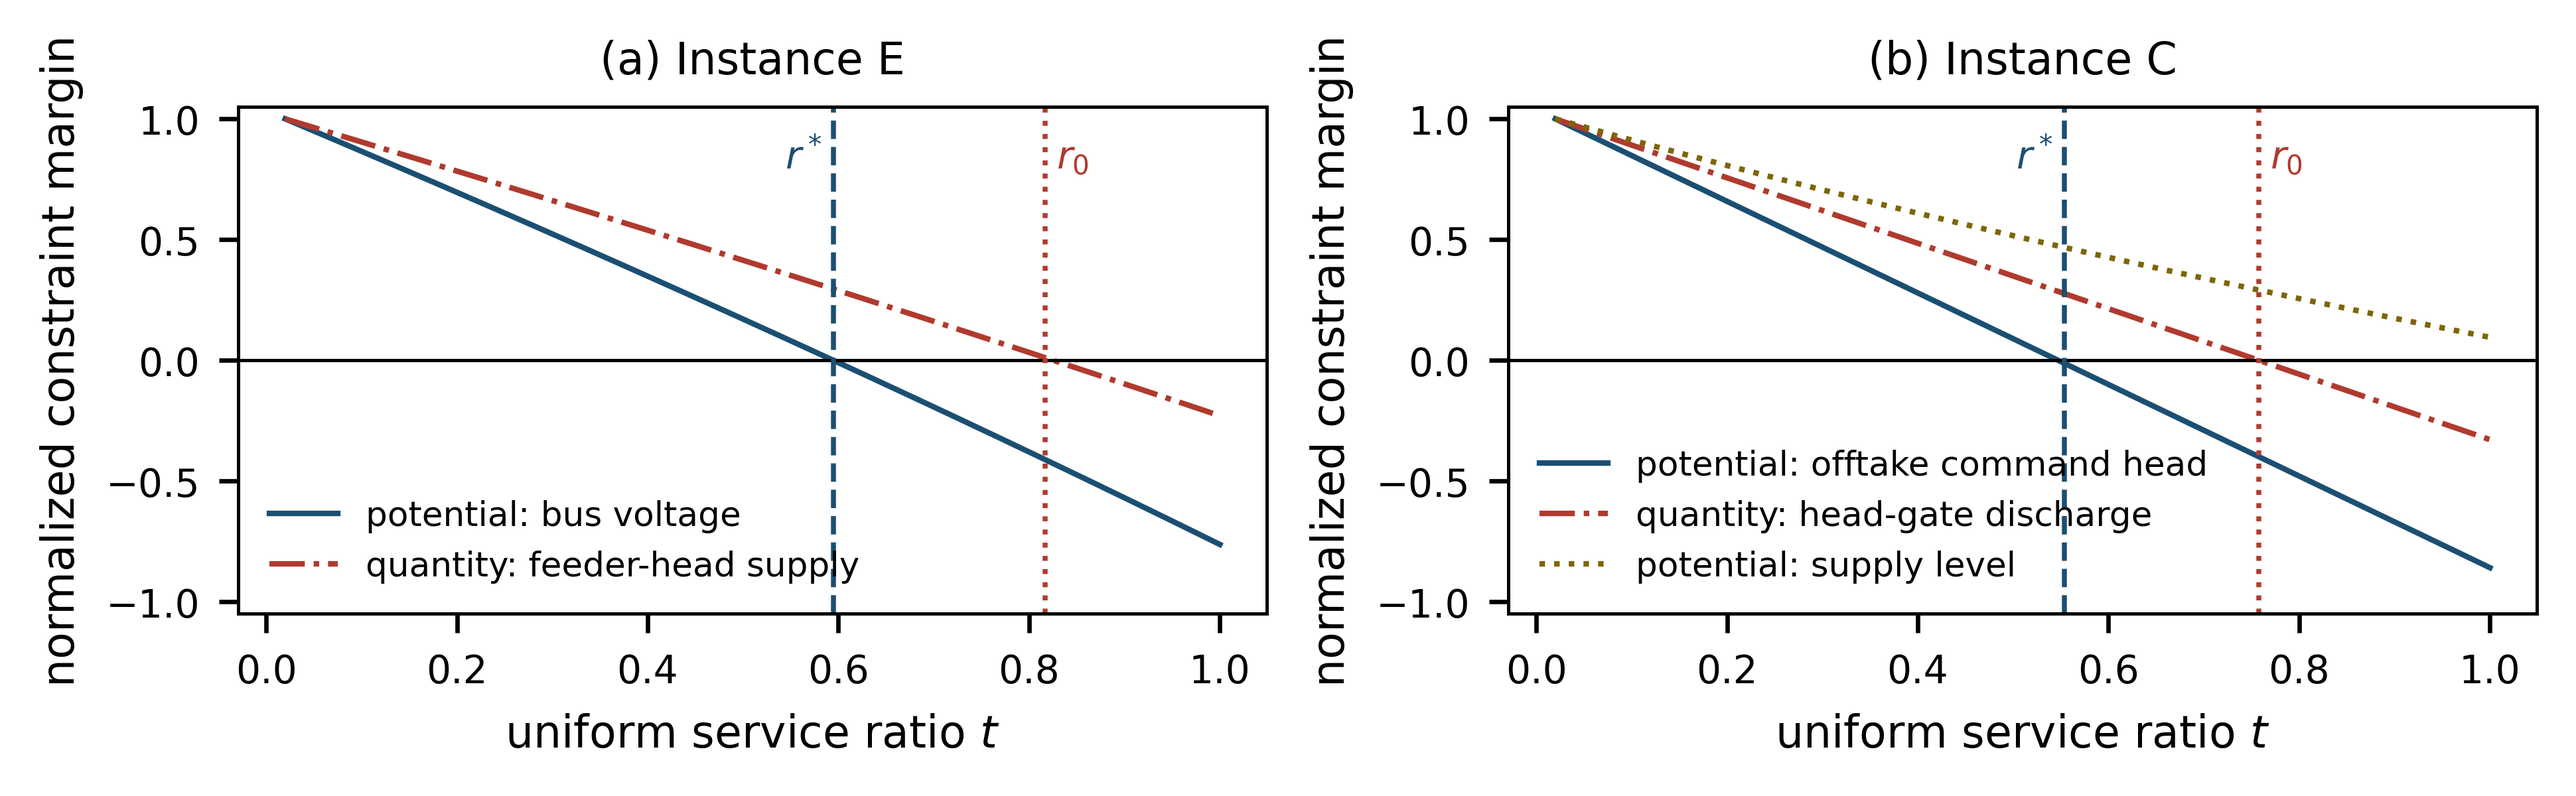
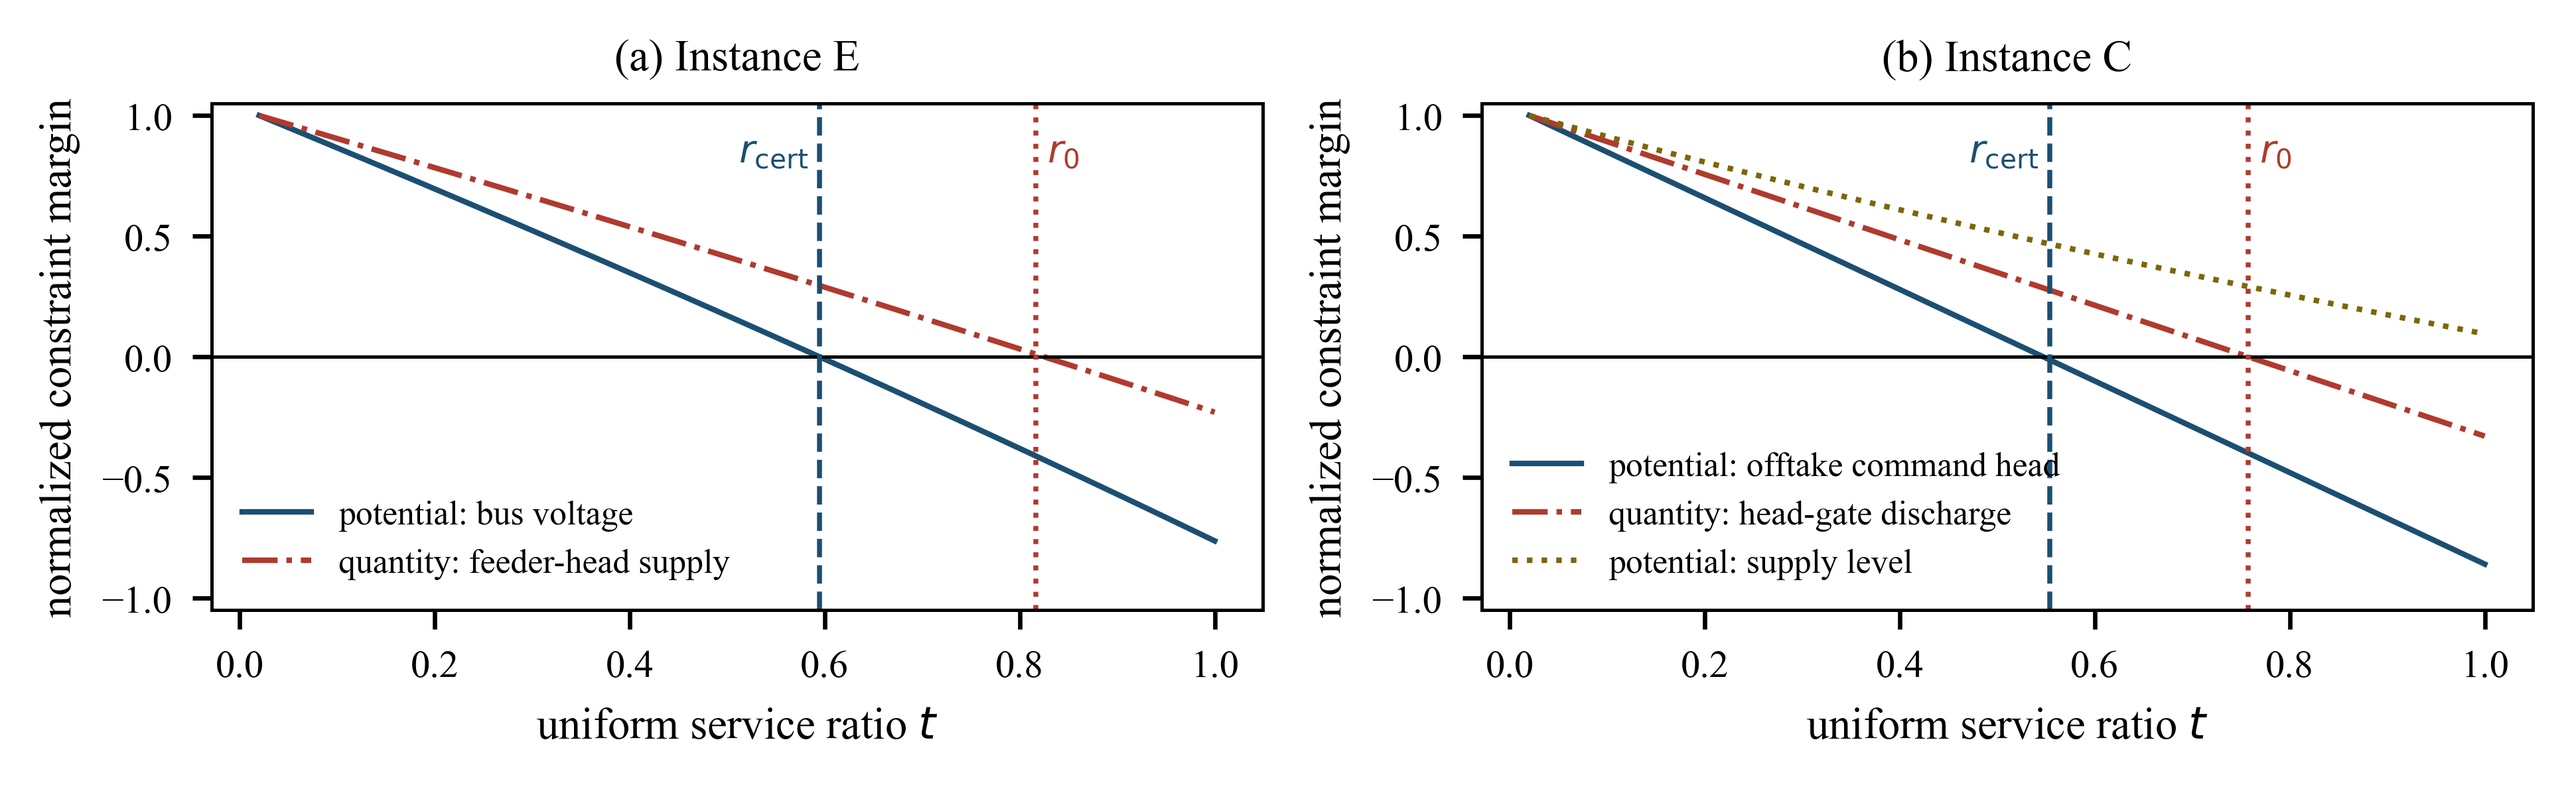
Relabel Figures 2 and 3 from the archived output; align README with the revised paper

diff --git a/src/figures.py b/src/figures.py
@@ -1,0 +1,146 @@
+#!/usr/bin/env python3
+"""Redraw Figures 2 and 3 from the archived benchmark output.
+
+Why this script exists
+----------------------
+The published figures were drawn by `hydrolex_bench.py` at a time when the
+manuscript wrote the computed floor as r*. The revised manuscript reserves r*
+for the leximin floor of problem P1 — the true optimum, which is not computed —
+and writes the value a certified plan attains as r_cert. Figures 2 and 3 still
+carried the old symbol, so they labelled a certified lower bound with the symbol
+the paper reserves for the optimum. Figure 3 additionally described the
+sequential-linearization search interval as a "bracket", which reads as a proved
+bound and is not one.
+
+This script corrects those labels and nothing else. It recomputes nothing: every
+plotted value is read from `results/hydrolex_bench_results.json`, the reference
+output archived with version 1.0.0 of this package. `hydrolex_bench.py` is left
+byte-identical to the script that produced that output.
+
+Usage
+-----
+    cd src
+    python figures.py
+
+writes ../results/fig2_frontier.png and ../results/fig3_convergence.png
+"""
+import json
+import os
+
+import numpy as np
+import matplotlib
+matplotlib.use("Agg")
+import matplotlib.pyplot as plt
+
+HERE = os.path.dirname(os.path.abspath(__file__))
+RESULTS = os.path.join(HERE, "..", "results")
+
+# style, identical to hydrolex_bench.py
+plt.rcParams.update({"font.family": "serif", "font.serif": ["Times New Roman"],
+                     "font.size": 8, "axes.linewidth": 0.6,
+                     "lines.linewidth": 1.0, "savefig.dpi": 600})
+C_DEC, C_CER, C_LIM = "#B03A2E", "#1B4F72", "#707B7C"
+
+# the symbol the revised manuscript uses for a floor a certified plan attains
+R_CERT = r"$r_{\mathrm{cert}}$"
+
+
+def load():
+    with open(os.path.join(RESULTS, "hydrolex_bench_results.json"),
+              encoding="utf-8") as fh:
+        return json.load(fh)
+
+
+def figure2(res):
+    fr = res["frontier"]
+    t = np.array(fr["t"])
+
+    def nrm(v):
+        v = np.array(v, float)
+        return v / abs(v[0])
+
+    fig, ax = plt.subplots(1, 2, figsize=(6.5, 2.05))
+    ax[0].plot(t, nrm(fr["E_voltage_margin_pu"]), color=C_CER,
+               label="potential: bus voltage")
+    ax[0].plot(t, nrm(fr["E_supply_margin"]), color=C_DEC, ls="-.",
+               label="quantity: feeder-head supply")
+    ax[1].plot(t, nrm(fr["C_gate_margin_m3s"]), color=C_CER,
+               label="potential: offtake command head")
+    ax[1].plot(t, nrm(fr["C_head_margin_m3s"]), color=C_DEC, ls="-.",
+               label="quantity: head-gate discharge")
+    ax[1].plot(t, nrm(fr["C_level_margin_m"]), color="#7D6608", ls=":",
+               label="potential: supply level")
+    for a, inst, ttl in ((ax[0], "instance_E", "(a) Instance E"),
+                         (ax[1], "instance_C", "(b) Instance C")):
+        a.axhline(0, color="k", lw=0.6)
+        a.axvline(res[inst]["decoupled_floor"], color=C_DEC, ls=":", lw=0.9)
+        a.axvline(res[inst]["certified_floor"], color=C_CER, ls="--", lw=0.9)
+        a.annotate("$r_0$", (res[inst]["decoupled_floor"], 0.92), fontsize=7,
+                   color=C_DEC, ha="left", va="top", xytext=(2, 0),
+                   textcoords="offset points")
+        a.annotate(R_CERT, (res[inst]["certified_floor"], 0.92), fontsize=7,
+                   color=C_CER, ha="right", va="top", xytext=(-2, 0),
+                   textcoords="offset points")
+        a.set_xlabel("uniform service ratio $t$")
+        a.set_ylabel("normalized constraint margin")
+        a.set_title(ttl, fontsize=8)
+        a.set_ylim(-1.05, 1.05)
+        a.legend(frameon=False, fontsize=6.2, loc="lower left")
+        a.tick_params(labelsize=7)
+    fig.tight_layout()
+    out = os.path.join(RESULTS, "fig2_frontier.png")
+    fig.savefig(out, bbox_inches="tight")
+    plt.close(fig)
+    return out
+
+
+def figure3(res):
+    cv = res["convergence"]
+    fig, ax = plt.subplots(1, 2, figsize=(6.5, 2.05))
+    ok = np.maximum(np.abs(np.array(cv["phase1_at_floor"])), 1e-16)
+    bad = np.maximum(np.abs(np.array(cv["phase1_above_floor"])), 1e-16)
+    floor = res["instance_C"]["certified_floor"]
+    ax[0].semilogy(np.arange(1, len(ok) + 1), ok, "o-", ms=3, color=C_CER,
+                   label=r"$t = r_{\mathrm{cert}}$ = %.4f" % floor)
+    ax[0].semilogy(np.arange(1, len(bad) + 1), bad, "s--", ms=3, color=C_DEC,
+                   label=r"$t = r_{\mathrm{cert}} + 0.02$")
+    ax[0].set_xlabel("phase-1 iteration")
+    ax[0].set_ylabel("|worst exact violation|, m$^3$/s")
+    ax[0].set_title("(a) Phase-1 convergence, Instance C", fontsize=8)
+    ax[0].legend(frameon=False, fontsize=6.5)
+
+    br = np.array(cv["bracket"])
+    if br.size:
+        k = np.arange(1, len(br) + 1)
+        ax[1].plot(k, br[:, 0], color=C_CER, label="lower end, search interval")
+        ax[1].plot(k, br[:, 1], color=C_DEC, ls="--",
+                   label="upper end, search interval")
+        ax[1].fill_between(k, br[:, 0], br[:, 1], color=C_LIM, alpha=0.18)
+    ax[1].set_xlabel("bisection iteration")
+    ax[1].set_ylabel("service-ratio floor")
+    ax[1].set_title("(b) Heuristic floor search, Instance C", fontsize=8)
+    ax[1].legend(frameon=False, fontsize=6.5)
+    for a in ax:
+        a.tick_params(labelsize=7)
+    fig.tight_layout()
+    out = os.path.join(RESULTS, "fig3_convergence.png")
+    fig.savefig(out, bbox_inches="tight")
+    plt.close(fig)
+    return out
+
+
+def main():
+    res = load()
+    print("redrawing from results/hydrolex_bench_results.json — no value is recomputed")
+    for out in (figure2(res), figure3(res)):
+        print("   written", os.path.normpath(out))
+    print("\nlabel changes only:")
+    print("   Figure 2, both panels : r*  ->  r_cert")
+    print("   Figure 3, panel (a)   : t = r*  ->  t = r_cert   (both legend entries)")
+    print("   Figure 3, panel (b)   : 'lower/upper bracket'  ->  'lower/upper end, "
+          "search interval'")
+    print("   Figure 3, panel (b)   : title 'Floor bisection'  ->  'Heuristic floor search'")
+
+
+if __name__ == "__main__":
+    main()

diff --git a/README.md b/README.md
@@ -26,7 +26,7 @@ physically unrelated radial media:
 | Transported quantity | active power, kW | discharge, m³/s |
 | Potential | bus voltage magnitude, p.u. | flow depth at the offtake, m |
 | Exact network solve | backward–forward sweep | RK4 integration of the gradually-varied-flow equation |
-| Feasible set downward closed | yes (under the monotonicity argument of the paper) | no (numerical counterexample) |
+| Feasible set downward closed | not certified — no proof or applicable theorem was found | no (numerical counterexample) |
 
 The two solves are (i) on a **quantity-only** feasible set, in which the network
 is compressed into one scalar budget, and (ii) on a **certified** feasible set,
@@ -42,6 +42,7 @@ egalitarian floor between the two.
 src/hydrolex_bench.py            the benchmark — one deterministic script
 src/diagnostics.py               non-invasive diagnostics (environment, Froude profile, grid check)
 src/sensitivity.py               sensitivity of the price to the baseline and to the deficit level
+src/figures.py                   redraws Figures 2 and 3 from the archived output (labels only)
 results/hydrolex_bench_results.json   reference output of the benchmark
 results/diagnostics.json              output of the diagnostics script
 results/sensitivity.json              output of the sensitivity script
@@ -59,7 +60,17 @@ CITATION.cff, LICENSE, .zenodo.json
 
 `src/hydrolex_bench.py` is **frozen**: it is byte-identical to the script that
 produced the published results. `src/diagnostics.py` imports it as a module and
-never modifies it.
+never modifies it. `src/figures.py` does not import it at all: it reads
+`results/hydrolex_bench_results.json` and redraws two figures from the values
+already stored there.
+
+Figures 2 and 3 were relabelled in version 1.1.0. The manuscript reserves `r*`
+for the leximin floor of problem P1 — the true optimum, which is not computed —
+and writes the value a certified plan attains as `r_cert`; the original figures
+carried the old symbol, so they labelled a certified lower bound with the symbol
+reserved for the optimum. Figure 3 also described the search interval of the
+sequential-linearization procedure as a "bracket", which reads as a proved bound
+and is not one. No plotted value changed.
 
 ---
 
@@ -75,6 +86,7 @@ cd src
 python hydrolex_bench.py        # writes hydrolex_bench_results.json and fig1..fig3.png
 python diagnostics.py           # writes ../results/diagnostics.json
 python sensitivity.py           # writes ../results/sensitivity.json and fig4
+python figures.py               # redraws fig2 and fig3 from the archived JSON
 ```
 
 `sensitivity.py --quick` runs the same study on reduced grids for a fast check.
@@ -129,13 +141,21 @@ asserted feasible before it is printed.
 
 ### Scope of the claims
 
-Instance E is reported under a monotonicity argument for the radial
-constant-power load-flow model; instance C is not downward closed and its floor
-is obtained by a sequential-linearization heuristic with **exact feasibility
-certification but no global optimality certificate**. A certified plan proves
-that the true egalitarian floor is *at least* the reported value, hence the
-reported price is an **upper bound** on the true price. Readers should treat the
-canal price accordingly.
+Neither reported price is exact, and both are upper bounds, for the same
+reason: a plan the exact model certifies proves that the true egalitarian floor
+is *at least* the value that plan attains, and proves nothing about the other
+direction.
+
+For instance C the feasible set is not downward closed and the floor comes from
+a sequential-linearization heuristic with **exact feasibility certification but
+no global optimality certificate**. For instance E downward closure is **not
+certified**: it would follow from two monotonicity conditions — that for
+`0 ≤ y ≤ x` the head power satisfies `S(y) ≤ S(x)` and every bus voltage
+satisfies `V_j(y) ≥ V_j(x)` on the solution branch the sweep converges to — and
+no proof of those for the exact sweep equations, nor an applicable cited
+theorem, was found. Equation (6) therefore returns the largest **uniform** plan
+the medium executes, which is a lower bound on the leximin floor and not
+necessarily equal to it.
 
 ---
 

diff --git a/results/reproducibility.md b/results/reproducibility.md
@@ -84,3 +84,12 @@ The script prints the environment block first, so the comparison above can be
 extended by anyone who runs it. Nothing in the benchmark is seeded, sampled or
 timed, so any difference between two runs would indicate a genuine numerical
 discrepancy rather than nondeterminism.
+
+## Figure labels, version 1.1.0
+
+Figures 2 and 3 were redrawn by `src/figures.py` from the values already stored
+in `results/hydrolex_bench_results.json`. The benchmark was not re-run and no
+plotted value changed; only the labels did, so that the figures use the symbol
+the manuscript defines for a floor attained by a certified plan rather than the
+symbol it reserves for the unknown optimum. `src/hydrolex_bench.py` remains
+byte-identical to the script that produced the archived output.
